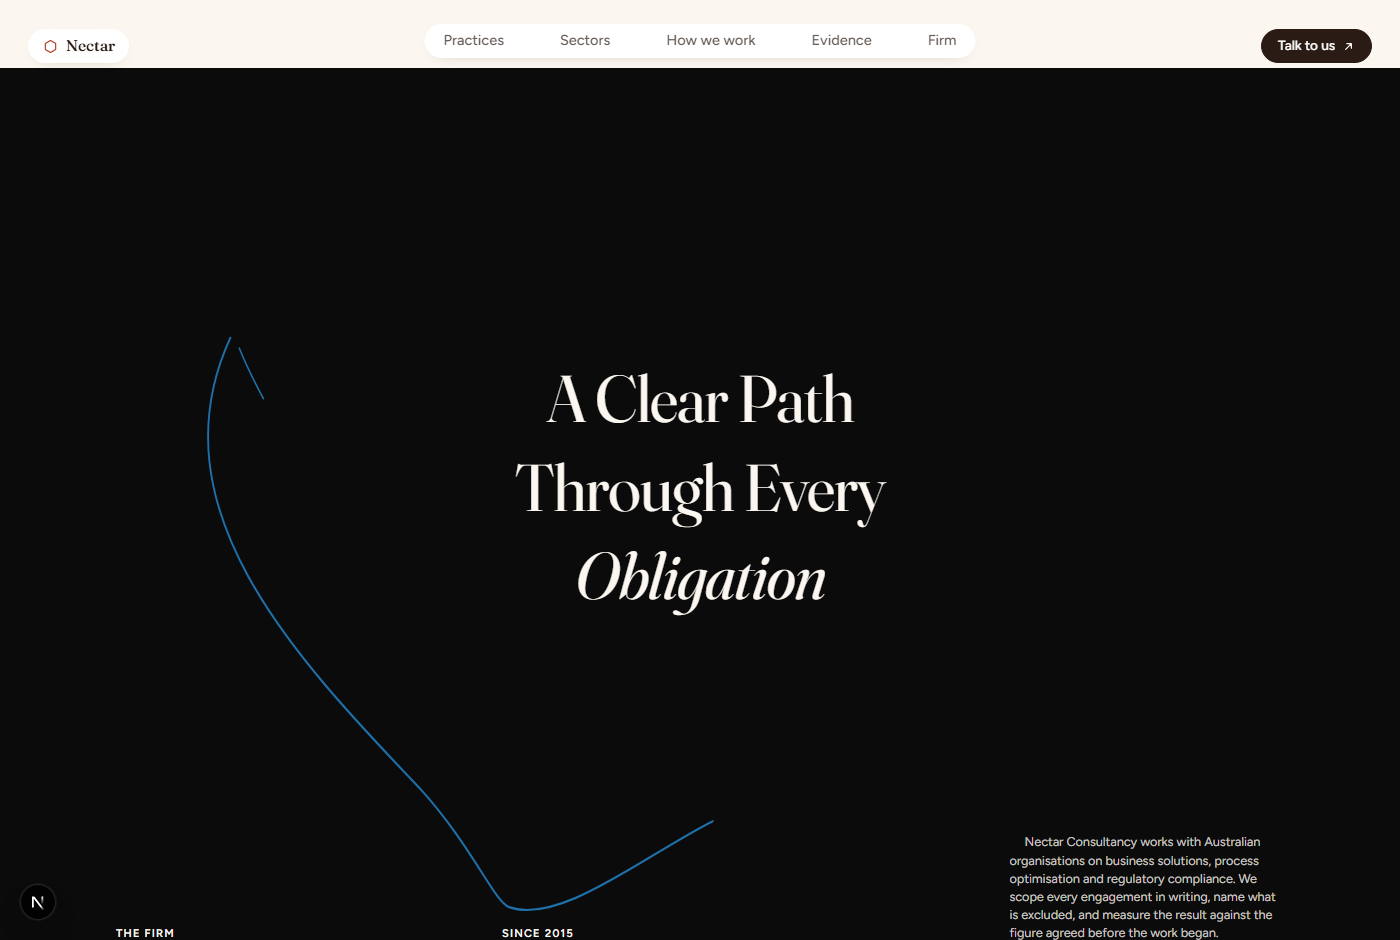
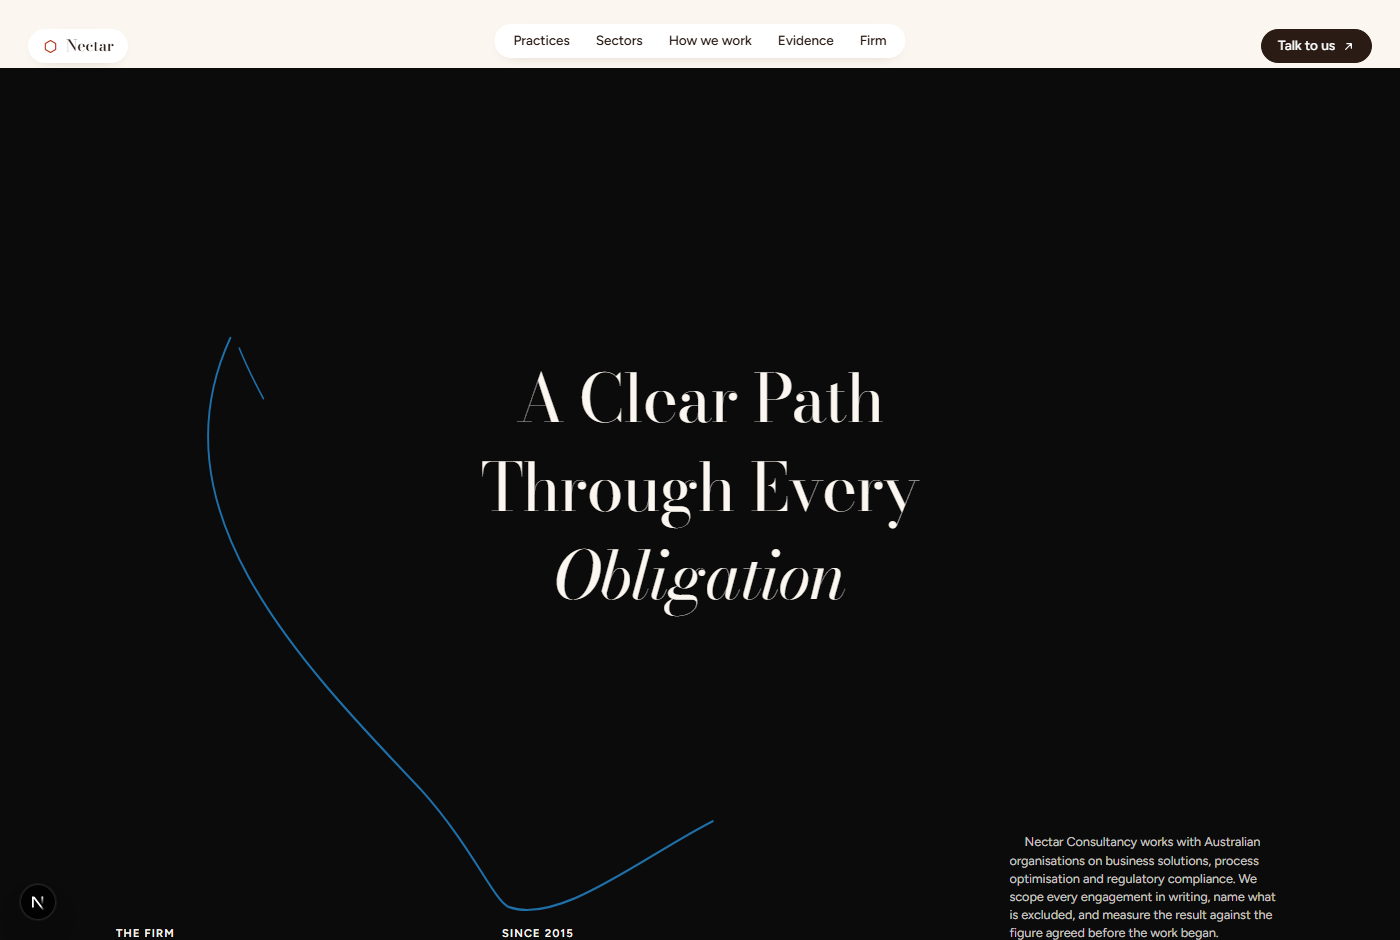
Neutral black throughout; Didone display face
The hero's closing overlay was still --ink, a warm brown, so the hero
resolved to brown while the section under it was neutral black. Both now
use --black and the two read as one surface.

Display face moves to a Didone: high stroke contrast, fine hairlines and
a true italic, matching the reference. Variation axes drop SOFT/WONK for
opsz, pinned to 96 at display sizes.

NOTE: this supersedes brief R11, which specified Fraunces with WONK at
0. Changed on instruction; the brief has not been reissued.

Fixes found by screenshotting:
- Reduced motion jumped the hero to the end of the colour journey, which
  set the controls to their inverted state while the ground stayed warm,
  since nothing repaints the field without the raf loop. It now holds the
  opening state.
- The Didone sets wider, so the headline wrapped to three lines. Resized
  and the measure widened.
- Removed a stale duplicate nav block that was overriding the pill link
  sizing and spacing.
- Hero button is a pill, matching the nav.

diff --git a/web/app/globals.css b/web/app/globals.css
@@ -70,13 +70,13 @@ img,svg,canvas{display:block;max-width:100%}
 /* ---------- type ---------- */
 .display{
   font-family:var(--font-display),Georgia,serif;
-  font-variation-settings:'SOFT' 0,'WONK' 0;
+  font-variation-settings:'opsz' 96;
   font-weight:400;
   letter-spacing:-.021em;
   line-height:1.06;
 }
-.display-500{font-variation-settings:'SOFT' 0,'WONK' 0;font-weight:500}
-.tnum{font-family:var(--font-display),Georgia,serif;font-variation-settings:'SOFT' 0,'WONK' 0;font-variant-numeric:tabular-nums}
+.display-500{font-variation-settings:'opsz' 96;font-weight:500}
+.tnum{font-family:var(--font-display),Georgia,serif;font-variation-settings:'opsz' 96;font-variant-numeric:tabular-nums}
 
 h1{font-size:clamp(34px,4.6vw,62px)}
 h2{font-size:clamp(26px,3.1vw,42px)}
@@ -184,18 +184,10 @@ h3{font-size:clamp(18px,1.5vw,23px)}
 .brand{display:inline-flex;align-items:baseline;gap:8px}
 .brand__name{
   font-family:var(--font-display),Georgia,serif;
-  font-variation-settings:'SOFT' 0,'WONK' 0;
+  font-variation-settings:'opsz' 96;
   font-weight:500;font-size:19px;letter-spacing:-.01em;
 }
 .brand__suffix{font-size:10.5px;letter-spacing:.16em;text-transform:uppercase;color:var(--ink-38)}
-.nav__links{display:flex;gap:30px}
-.nav__links a{
-  font-size:14.5px;color:var(--ink-70);
-  padding-block:6px;border-bottom:1px solid transparent;
-  transition:color .25s ease,border-color .25s ease;
-}
-.nav__links a:hover,.nav__links a[data-active="true"]{color:var(--ink);border-bottom-color:var(--brick)}
-.nav__cta{display:flex;align-items:center;gap:16px}
 
 /* ---------- hero (full-bleed field) ---------- */
 /* Taller than the viewport: the ground pins while the content scrolls off it,
@@ -206,13 +198,13 @@ h3{font-size:clamp(18px,1.5vw,23px)}
 }
 .hero__bg canvas{position:absolute;inset:0;width:100%;height:100%}
 .hero__black{
-  position:absolute;inset:0;background:var(--ink);
+  position:absolute;inset:0;background:var(--black);
   opacity:0;pointer-events:none;
 }
 .hero__inner{
   position:absolute;top:0;left:0;right:0;height:100svh;z-index:1;
   display:grid;align-content:end;justify-items:center;
-  width:100%;max-width:1000px;margin-inline:auto;
+  width:100%;max-width:1180px;margin-inline:auto;
   padding:calc(var(--nav-h) + 24px) clamp(16px,2.2vw,28px) clamp(26px,5.4vh,58px);
   text-align:center;
 }
@@ -231,11 +223,13 @@ h3{font-size:clamp(18px,1.5vw,23px)}
 }
 
 .hero__title{
-  /* opsz at its maximum gives Fraunces its highest stroke contrast, which is
-     what reads as a display serif at this size. WONK stays at 0 (brief R11). */
-  font-variation-settings:'SOFT' 0,'WONK' 0,'opsz' 144;
+  /* opsz at its maximum gives the Didone its highest stroke contrast, which is
+     what reads as a display serif at this size. */
+  font-variation-settings:'opsz' 96;
   font-weight:400;
-  font-size:clamp(38px,7.9vw,98px);
+  /* The Didone sets wider than the previous face — sized so the two lines
+     hold without wrapping to three. */
+  font-size:clamp(32px,6.4vw,80px);
   /* Fraunces carries long descenders — below ~0.98 the "g" of line one
      collides with the ascenders of line two. */
   line-height:.99;
@@ -243,7 +237,7 @@ h3{font-size:clamp(18px,1.5vw,23px)}
   color:var(--ink);
   min-height:1.98em;
 }
-.hero__title span{font-variation-settings:'SOFT' 0,'WONK' 0,'opsz' 144}
+.hero__title span{font-variation-settings:'opsz' 96}
 .caret{
   display:inline-block;width:.5em;height:.08em;
   background:var(--hero-fg,var(--ink));vertical-align:baseline;
@@ -300,7 +294,7 @@ h3{font-size:clamp(18px,1.5vw,23px)}
 }
 .dark__title{
   align-self:center;justify-self:center;text-align:center;
-  font-variation-settings:'SOFT' 0,'WONK' 0,'opsz' 144;
+  font-variation-settings:'opsz' 96;
   font-weight:400;
   font-size:clamp(32px,5.7vw,66px);
   line-height:1.34;          /* the reference sets this open, not tight */

diff --git a/web/app/layout.tsx b/web/app/layout.tsx
@@ -1,5 +1,5 @@
 import type { Metadata } from "next";
-import { Fraunces, Figtree } from "next/font/google";
+import { Bodoni_Moda, Figtree } from "next/font/google";
 import Nav from "@/components/Nav";
 import Footer from "@/components/Footer";
 import LaunchSequence from "@/components/LaunchSequence";
@@ -7,13 +7,18 @@ import { site } from "@/content/site";
 import "./globals.css";
 
 /**
- * Display face. WONK is held at 0 so Fraunces reads sharp rather than quirky
- * (brief R11); SOFT is held at 0 for the same reason.
+ * Display face. A Didone, to match the reference the client supplied — high
+ * stroke contrast, fine hairlines, a true italic for the accent lines.
+ *
+ * NOTE: this supersedes brief R11, which specified Fraunces with WONK at 0.
+ * Changed on the client's instruction; the brief has not been reissued.
+ *
+ * Variable font, so weight is omitted (see next/font docs); opsz carries the
+ * contrast and is pinned to 96, its maximum, on display sizes.
  */
-const fraunces = Fraunces({
+const display = Bodoni_Moda({
   subsets: ["latin"],
-  axes: ["SOFT", "WONK", "opsz"],
-  weight: "variable",
+  axes: ["opsz"],
   style: ["normal", "italic"],
   display: "swap",
   variable: "--font-display",
@@ -46,7 +51,7 @@ export default function RootLayout({
   children,
 }: Readonly<{ children: React.ReactNode }>) {
   return (
-    <html lang="en-AU" className={`${fraunces.variable} ${figtree.variable}`}>
+    <html lang="en-AU" className={`${display.variable} ${figtree.variable}`}>
       <body>
         <LaunchSequence />
         <Nav />

diff --git a/web/components/Hero.tsx b/web/components/Hero.tsx
@@ -120,8 +120,11 @@ export default function Hero() {
     };
 
     if (prefersReducedMotion()) {
-      shiftRef.current = 1;
-      setDark(true);
+      // Hold the opening state: warm ground, ink type, dark buttons. Jumping
+      // to the end of the journey left the ground warm but the controls
+      // inverted, because nothing repaints the field without the raf loop.
+      shiftRef.current = 0;
+      setDark(false);
       return;
     }
 
@@ -234,7 +237,7 @@ export default function Hero() {
         </p>
 
         <div className="hero__cta" data-in={done}>
-          <Link className="btn btn--dark" href="/contact">
+          <Link className="btn btn--dark btn--pill" href="/contact">
             Talk to us <Arrow />
           </Link>
         </div>
